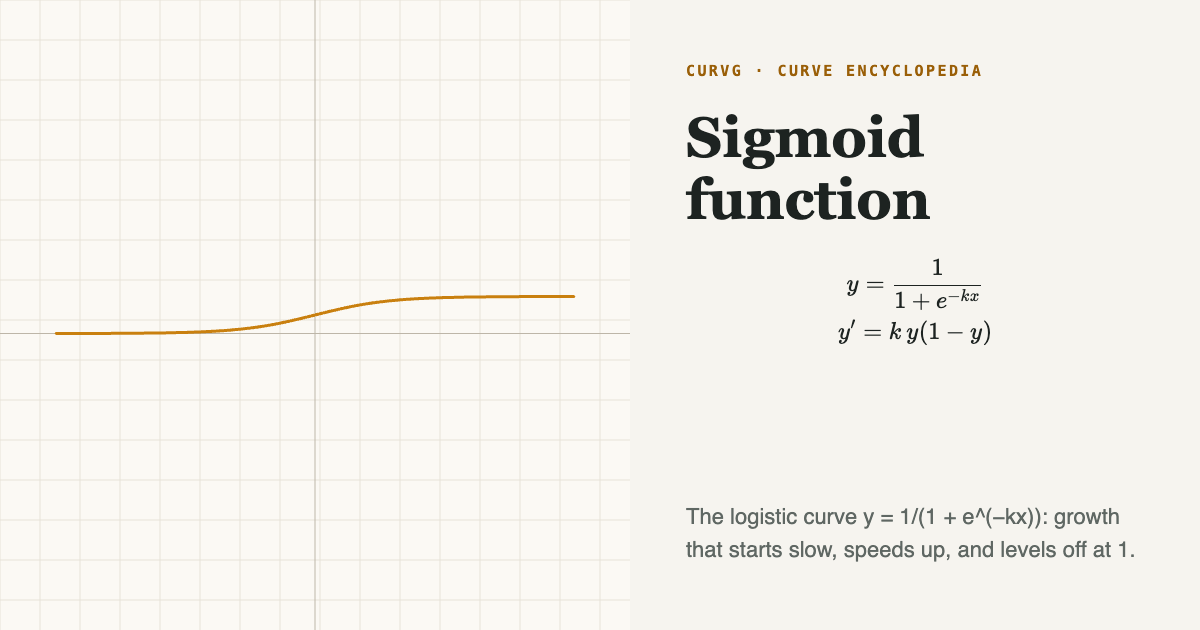
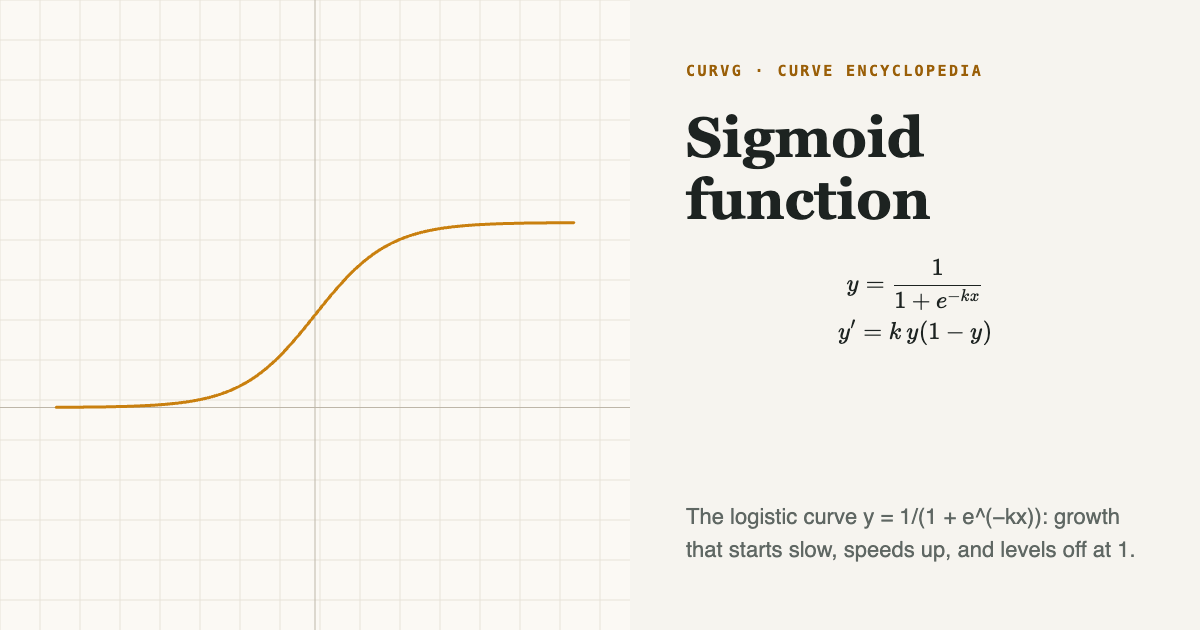
fix(curves): identical server and browser paths; sigmoid drawn at a readable scale
- Node and the browser can differ in the last bit of Math.sin/cos/exp
  (measured on 50 curves). On a symmetric curve that breaks a tie in the
  RDP simplifier differently, so thumbnails hydrated with a different
  path. Screen points are snapped to 0.01 view units before simplifying,
  distances use Math.sqrt instead of Math.hypot, and tick labels and the
  start handle print rounded coordinates. 126 pages checked: no
  hydration warnings.
- CurveDef.yStretch draws the y-axis larger for function graphs that are
  a thin strip; the axes are numbered separately and the pointer readout
  converts per axis. Only the sigmoid uses it (x5); its static graph and
  share images are regenerated. Curves built from circles or fixed
  lengths keep a 1:1 scale.

diff --git a/src/components/curve-preview.tsx b/src/components/curve-preview.tsx
@@ -82,9 +82,9 @@ function fixedFrame(curve: CurveDef): Box {
   return box ?? { minX: -1, maxX: 1, minY: -1, maxY: 1 };
 }
 
-function fitTransform(box: Box) {
+function fitTransform(box: Box, yStretch = 1) {
   const spanX = Math.max(box.maxX - box.minX, 1e-9);
-  const spanY = Math.max(box.maxY - box.minY, 1e-9);
+  const spanY = Math.max(box.maxY - box.minY, 1e-9) * yStretch;
   const scale = Math.min(
     (VIEW_W * (1 - 2 * PAD)) / spanX,
     (VIEW_H * (1 - 2 * PAD)) / spanY
@@ -94,8 +94,29 @@ function fitTransform(box: Box) {
   return (x: number, y: number): [number, number] => [
     VIEW_W / 2 + (x - midX) * scale,
     // SVG y grows downward; curve space y grows upward.
-    VIEW_H / 2 - (y - midY) * scale,
+    VIEW_H / 2 - (y - midY) * scale * yStretch,
   ];
+}
+
+/** The transform's pixels per unit along each axis. */
+function axisScales(transform: Transform) {
+  const [ox, oy] = transform(0, 0);
+  return {
+    ox,
+    oy,
+    scaleX: transform(1, 0)[0] - ox,
+    scaleY: oy - transform(0, 1)[1],
+  };
+}
+
+/**
+ * Snap screen points to 1/100 of a view unit. Node and the browser can
+ * disagree on the last bit of Math.sin/cos/exp; on a symmetric curve that
+ * is enough to break a tie in `simplify` differently, and the hydrated
+ * path no longer matches the server's. Snapped inputs make it identical.
+ */
+function snap(value: number): number {
+  return Math.round(value * 100) / 100;
 }
 
 /**
@@ -119,7 +140,7 @@ function simplify(
     const [bx, by] = points[last];
     const dx = bx - ax;
     const dy = by - ay;
-    const length = Math.hypot(dx, dy);
+    const length = Math.sqrt(dx * dx + dy * dy);
     let worst = 0;
     let worstIndex = -1;
     for (let index = first + 1; index < last; index += 1) {
@@ -127,7 +148,7 @@ function simplify(
       const distance =
         length > 0
           ? Math.abs(dy * px - dx * py + bx * ay - by * ax) / length
-          : Math.hypot(px - ax, py - ay);
+          : Math.sqrt((px - ax) ** 2 + (py - ay) ** 2);
       if (distance > worst) {
         worst = distance;
         worstIndex = index;
@@ -147,7 +168,10 @@ function toPaths(
   tolerance?: number
 ): string[] {
   return polylines.map((line) => {
-    const screen = line.map(([x, y]) => transform(x, y));
+    const screen = line.map(([x, y]) => {
+      const [sx, sy] = transform(x, y);
+      return [snap(sx), snap(sy)] as [number, number];
+    });
     const points = tolerance ? simplify(screen, tolerance) : screen;
     let d = '';
     for (const [x, y] of points) {
@@ -285,19 +309,19 @@ function tickLabel(value: number): string {
  * the nearest edge when an axis is off screen.
  */
 function AxisGrid({ transform }: { transform: Transform }) {
-  const [ox, oy] = transform(0, 0);
-  const scale = transform(1, 0)[0] - ox;
-  if (!Number.isFinite(scale) || scale <= 0) return null;
-  const step = niceStep(64 / scale);
+  const { ox, oy, scaleX, scaleY } = axisScales(transform);
+  if (!(scaleX > 0) || !(scaleY > 0)) return null;
+  const stepX = niceStep(64 / scaleX);
+  const stepY = niceStep(64 / scaleY);
   const xs: number[] = [];
   const ys: number[] = [];
-  for (let i = Math.ceil(-ox / scale / step); ; i += 1) {
-    const sx = ox + i * step * scale;
+  for (let i = Math.ceil(-ox / scaleX / stepX); ; i += 1) {
+    const sx = ox + i * stepX * scaleX;
     if (sx > VIEW_W || xs.length > 60) break;
     xs.push(i);
   }
-  for (let i = Math.ceil((oy - VIEW_H) / scale / step); ; i += 1) {
-    const sy = oy - i * step * scale;
+  for (let i = Math.ceil((oy - VIEW_H) / scaleY / stepY); ; i += 1) {
+    const sy = oy - i * stepY * scaleY;
     if (sy < 0 || ys.length > 60) break;
     ys.push(i);
   }
@@ -311,11 +335,11 @@ function AxisGrid({ transform }: { transform: Transform }) {
     <g aria-hidden>
       <g stroke="currentColor" strokeOpacity={0.07}>
         {xs.map((i) => {
-          const sx = (ox + i * step * scale).toFixed(1);
+          const sx = (ox + i * stepX * scaleX).toFixed(1);
           return <path key={`gx${i}`} d={`M${sx} 0V${VIEW_H}`} />;
         })}
         {ys.map((i) => {
-          const sy = (oy - i * step * scale).toFixed(1);
+          const sy = (oy - i * stepY * scaleY).toFixed(1);
           return <path key={`gy${i}`} d={`M0 ${sy}H${VIEW_W}`} />;
         })}
       </g>
@@ -336,20 +360,30 @@ function AxisGrid({ transform }: { transform: Transform }) {
         fontSize={11}
       >
         {xs.map((i) => {
-          const sx = ox + i * step * scale;
+          const sx = ox + i * stepX * scaleX;
           if (i === 0 || sx < 14 || sx > VIEW_W - 14) return null;
           return (
-            <text key={`tx${i}`} x={sx} y={labelY} textAnchor="middle">
-              {tickLabel(i * step)}
+            <text
+              key={`tx${i}`}
+              x={sx.toFixed(1)}
+              y={labelY.toFixed(1)}
+              textAnchor="middle"
+            >
+              {tickLabel(i * stepX)}
             </text>
           );
         })}
         {ys.map((i) => {
-          const sy = oy - i * step * scale;
+          const sy = oy - i * stepY * scaleY;
           if (i === 0 || sy < 12 || sy > VIEW_H - 10) return null;
           return (
-            <text key={`ty${i}`} x={labelX} y={sy + 4} textAnchor={anchorX}>
-              {tickLabel(i * step)}
+            <text
+              key={`ty${i}`}
+              x={labelX.toFixed(1)}
+              y={(sy + 4).toFixed(1)}
+              textAnchor={anchorX}
+            >
+              {tickLabel(i * stepY)}
             </text>
           );
         })}
@@ -370,7 +404,7 @@ export function CurveThumb({
 }) {
   const { paths, origin } = useMemo(() => {
     const polylines = curve.sample(defaultValues(curve));
-    const transform = fitTransform(boxOf(polylines));
+    const transform = fitTransform(boxOf(polylines), curve.yStretch);
     return {
       paths: toPaths(polylines, transform, 0.6),
       origin: transform(0, 0),
@@ -400,7 +434,7 @@ export function CurveDrawingLoop({
 }) {
   const paths = useMemo(() => {
     const polylines = curve.sample(defaultValues(curve));
-    const transform = fitTransform(boxOf(polylines));
+    const transform = fitTransform(boxOf(polylines), curve.yStretch);
     return toPaths(polylines, transform, 0.6);
   }, [curve]);
   return (
@@ -480,7 +514,8 @@ export function CurveExplorer({
   const { polylines, paths, origin, transform } = useMemo(() => {
     const polylines = curve.sample(values);
     const transform = fitTransform(
-      frame ?? boxOf([...polylines, traceExtent(curve.slug, values)])
+      frame ?? boxOf([...polylines, traceExtent(curve.slug, values)]),
+      curve.yStretch
     );
     return {
       polylines,
@@ -524,8 +559,8 @@ export function CurveExplorer({
           ) : start ? (
             // Where the pen will set off: the amber handle of the logo.
             <circle
-              cx={start[0]}
-              cy={start[1]}
+              cx={start[0].toFixed(1)}
+              cy={start[1].toFixed(1)}
               r={6}
               fill="var(--card)"
               stroke="var(--brand)"
@@ -684,9 +719,9 @@ function readoutValue(value: number, step: number): string {
  */
 function PointerReadout({ transform }: { transform: Transform }) {
   const [point, setPoint] = useState<[number, number] | null>(null);
-  const [ox, oy] = transform(0, 0);
-  const scale = transform(1, 0)[0] - ox;
-  const step = niceStep(64 / scale) / 10;
+  const { ox, oy, scaleX, scaleY } = axisScales(transform);
+  const stepX = niceStep(64 / scaleX) / 10;
+  const stepY = niceStep(64 / scaleY) / 10;
   return (
     <svg
       viewBox={`0 0 ${VIEW_W} ${VIEW_H}`}
@@ -718,7 +753,7 @@ function PointerReadout({ transform }: { transform: Transform }) {
             fontFamily="var(--font-code)"
             fontSize={12}
           >
-            {`x ${readoutValue((point[0] - ox) / scale, step)}   y ${readoutValue((oy - point[1]) / scale, step)}`}
+            {`x ${readoutValue((point[0] - ox) / scaleX, stepX)}   y ${readoutValue((oy - point[1]) / scaleY, stepY)}`}
           </text>
         </g>
       ) : null}

diff --git a/scripts/curve-images.ts b/scripts/curve-images.ts
@@ -45,14 +45,17 @@ function graphPaths(curve: CurveDef, w: number, h: number, pad: number) {
       maxY = Math.max(maxY, y);
     }
   }
+  // Function graphs that are a thin strip draw y larger (CurveDef.yStretch).
+  const stretch = curve.yStretch ?? 1;
   const k = Math.min(
     (w - 2 * pad) / (maxX - minX || 1),
-    (h - 2 * pad) / (maxY - minY || 1)
+    (h - 2 * pad) / ((maxY - minY) * stretch || 1)
   );
+  const ky = k * stretch;
   const ox = (w - (maxX - minX) * k) / 2 - minX * k;
-  const oy = (h + (maxY - minY) * k) / 2 + minY * k;
+  const oy = (h + (maxY - minY) * ky) / 2 + minY * ky;
   const X = (x: number) => (ox + x * k).toFixed(1);
-  const Y = (y: number) => (oy - y * k).toFixed(1);
+  const Y = (y: number) => (oy - y * ky).toFixed(1);
   const paths = lines
     .filter((line) => line.length > 1)
     .map((line) => `M${line.map(([x, y]) => `${X(x)},${Y(y)}`).join('L')}`);

diff --git a/src/content/curves/types.ts b/src/content/curves/types.ts
@@ -48,6 +48,13 @@ export type CurveDef = {
    */
   fitMode: 'fixed' | 'refit';
   /**
+   * Draw the y-axis this many times larger than the x-axis. Only for
+   * function graphs whose natural shape is a thin strip (the sigmoid is
+   * 14 wide, 1 tall); the numbered axes show the two scales. Never for
+   * curves built from circles or fixed lengths. Default 1.
+   */
+  yStretch?: number;
+  /**
    * How many leading polylines of `sample()` are construction, not the
    * curve: a fixed circle, a control polygon. They are drawn thin and faint.
    * Default 0 — every polyline is the curve (hyperbola branches, spiral arms).

diff --git a/src/content/curves/data/cartesian.ts b/src/content/curves/data/cartesian.ts
@@ -848,6 +848,7 @@ export const cartesianCurves: CurveDef[] = [
       },
     ],
     fitMode: 'fixed',
+    yStretch: 5,
     sample: ({ k }) => [
       sweep(-7, 7, 800, (x) => [x, 1 / (1 + Math.exp(-k * x))]),
     ],

diff --git a/docs/PROJECT_BRIEF.md b/docs/PROJECT_BRIEF.md
@@ -99,6 +99,13 @@ Logo 是一笔画成的 G，起点是琥珀色圆环把手（实验画板上"可
 
 按日期倒序，记录影响定位、页面结构或可维护性的变化（逐条提交见 `git log`）。
 
+### 2026-10-17（上午）— 曲线页渲染一致性与 S 形函数取景
+
+- 修复曲线缩略图在服务器与浏览器之间路径不一致（hydration 警告，改版前就有）：简化折线前先对齐坐标，见 `CURVE_ENCYCLOPEDIA.md`
+  第 9 节末。
+- `CurveDef.yStretch`：细长的函数图像可放大 y 轴显示，坐标轴分别标刻度；目前只用于 S 形函数（×5），静态图与分享图已重新生成。
+- `scripts/seo-check.mjs` 的创作台检查改为认新版工作台的两个入口（"想讲什么"与"模板库"）。
+
 ### 2026-10-17 — 曲线详情页视觉升级（60 条共用模板）
 
 - 图像变成能读数的坐标纸：网格落在整数刻度上、坐标轴标数字，鼠标悬停显示十字线和 (x, y)；曲线进入时画一遍，带琥珀光晕，
